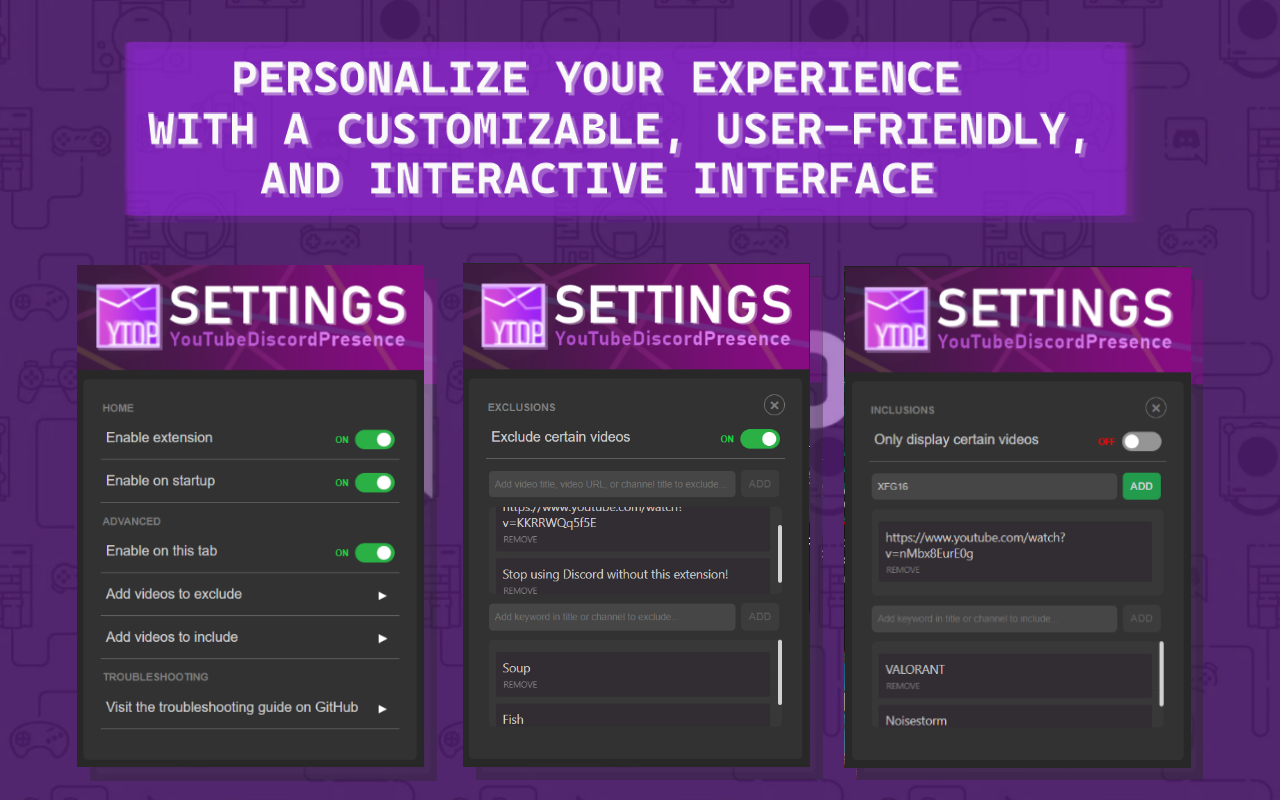
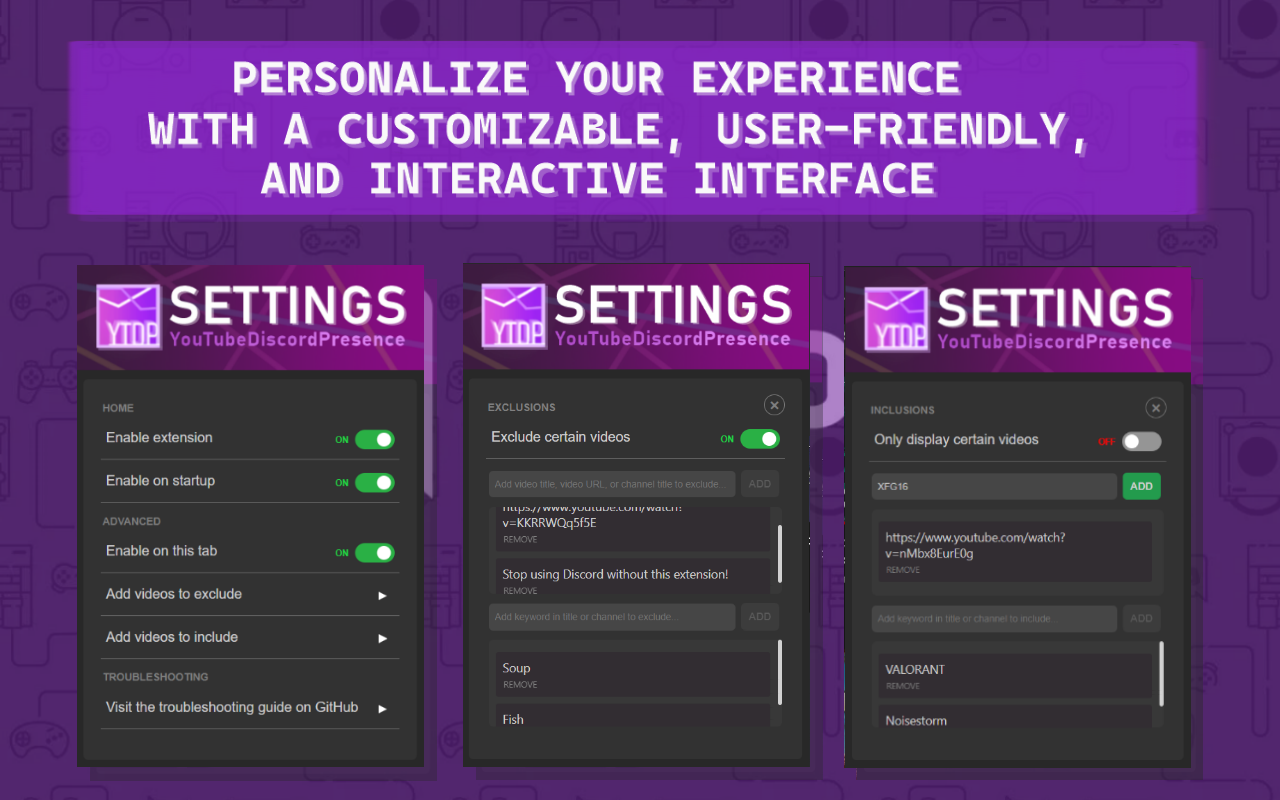
update screenshot 3

Changed region(s): [[0.0312, 0.0312, 0.125, 0.2812], [0.875, 0.0312, 0.9375, 0.2812]]

diff --git a/README.md b/README.md
@@ -40,9 +40,3 @@
  - Maybe add a feature to stop the presence from disappearing when no video is playing; instead, just make the rich presence display idle (let the user choose between original or this)
  - Maybe have presence display a different icon for YouTube Music
 
-<br>
-<hr></hr>
-<br>
-<div align=center>
-  <img width="75%" height="auto" src="https://github.com/XFG16/YouTubeDiscordPresence/blob/YouTubeDiscordPresenceWin/Screenshots/ytdpScreenshot3.png?raw=true">
-</div>
